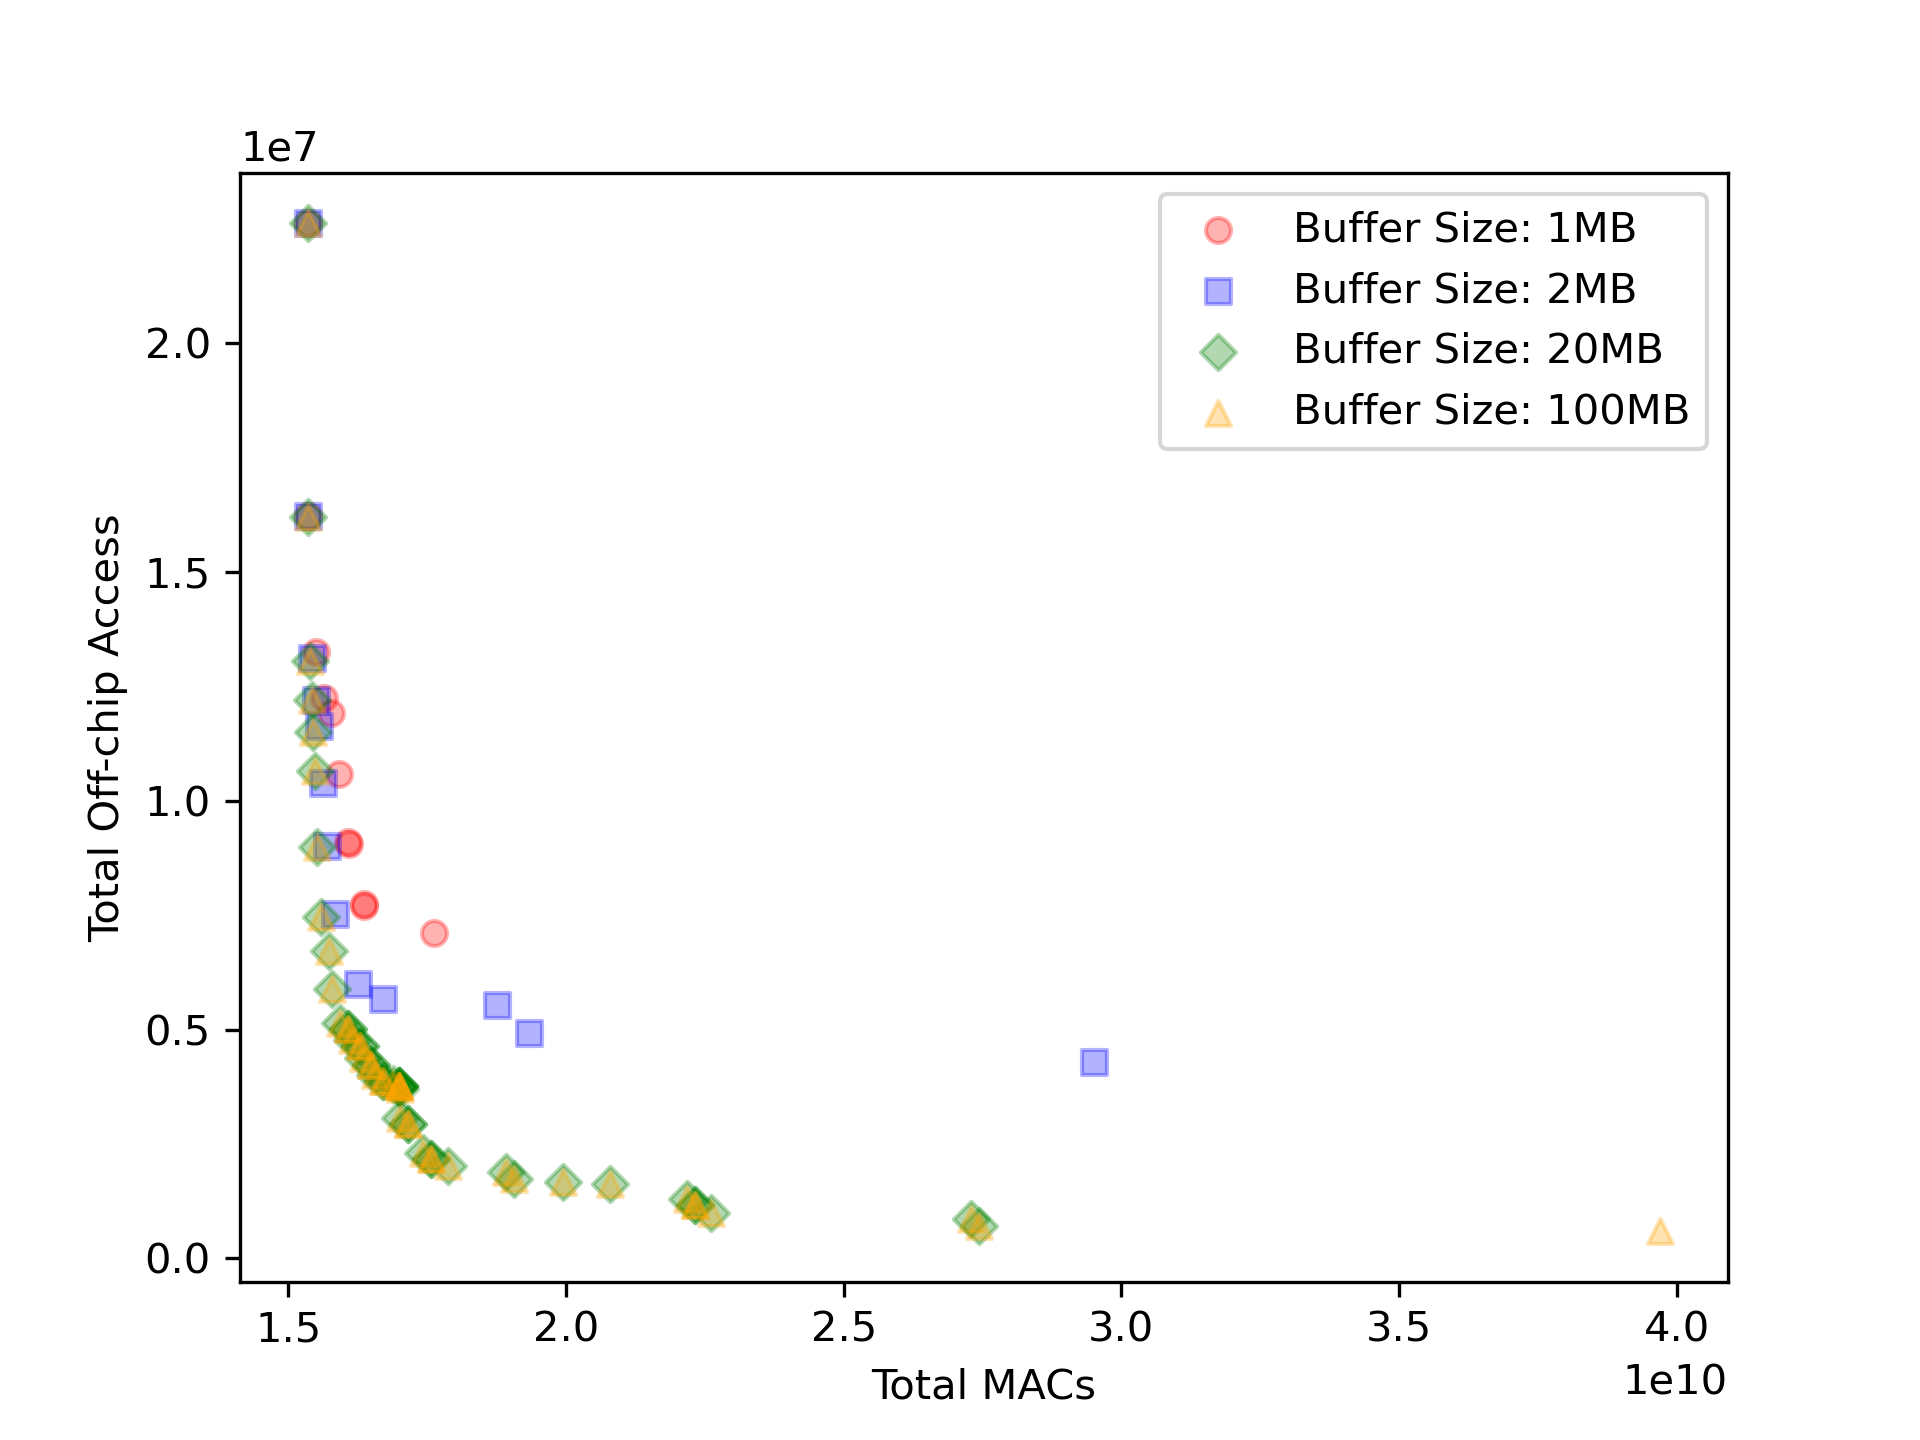
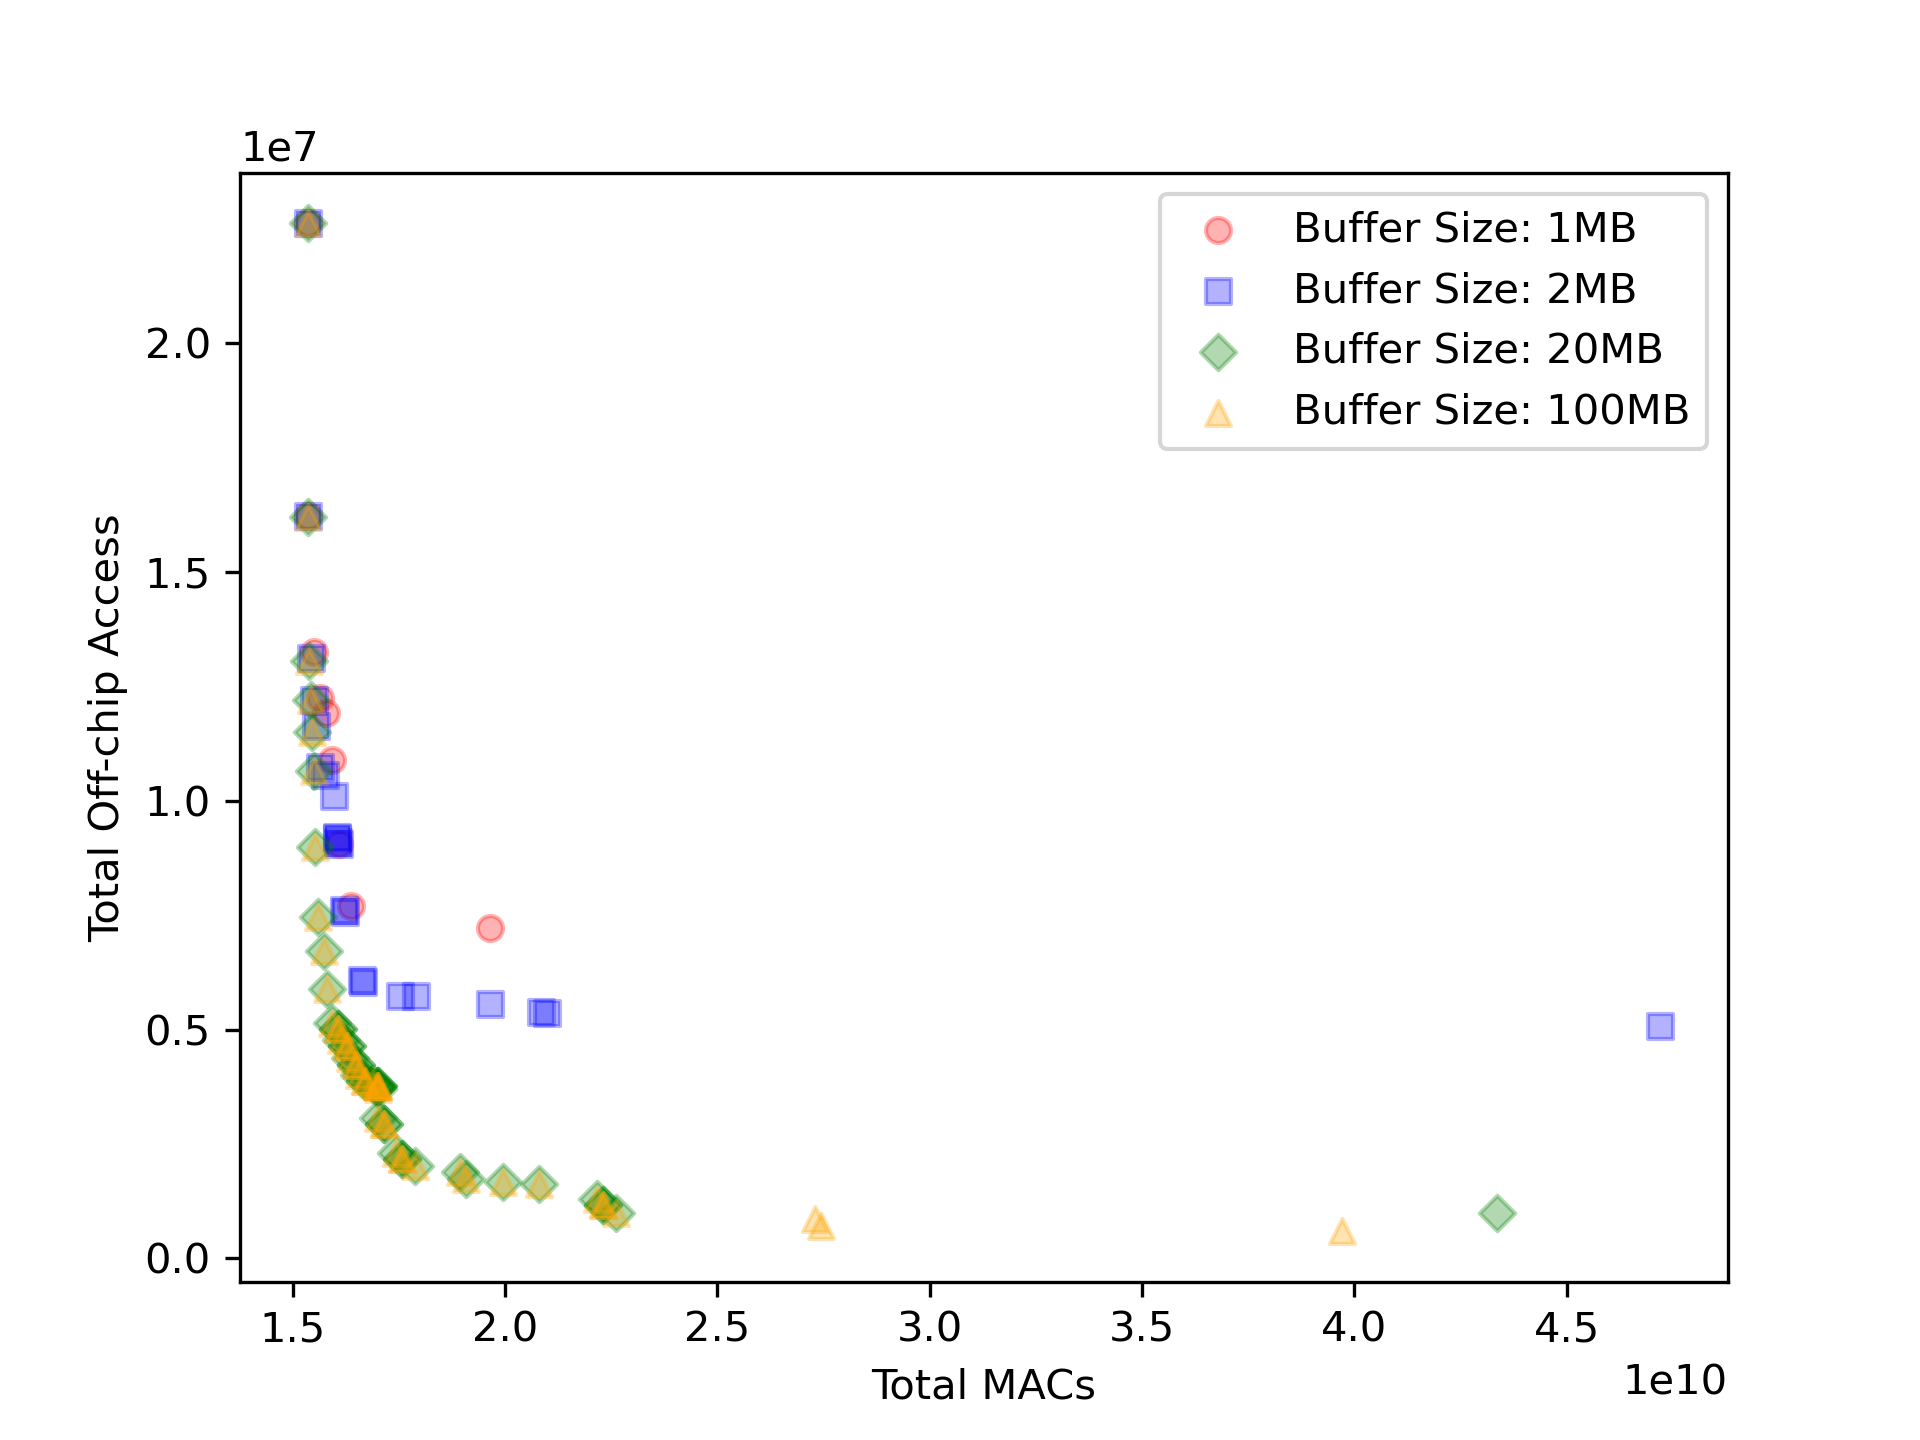
debug

diff --git a/scripts/sample-fusion.py b/scripts/sample-fusion.py
@@ -84,68 +84,68 @@ strategies = layerFuserRecursiveDP.fuse_layer_recursive_start(config_no_dram, cn
 helper.printStrategies(strategies)
 helper.summarizeStrategies(strategies, buffer_size)
 
-strategy_index=0
-for fused_groups in strategies:
+# strategy_index=0
+# for fused_groups in strategies:
 
-    index = 0
-    cycles_list = [] #cycles
-    energy_list = [] #energy_pJ
-    energy_per_mac_list = [] #energy_per_mac
-    macs_num_list = [] #macs
-    for i in range(0, len(fused_groups)):
-        for j in range(0, len(fused_groups[i])):
+#     index = 0
+#     cycles_list = [] #cycles
+#     energy_list = [] #energy_pJ
+#     energy_per_mac_list = [] #energy_per_mac
+#     macs_num_list = [] #macs
+#     for i in range(0, len(fused_groups)):
+#         for j in range(0, len(fused_groups[i])):
             
-            # print(fused_groups[i][j])
-            input_tile_count = fused_groups[i][j][3]
-            print("input_tile_count: ", input_tile_count)
-            fused_groups[i][j][3]=1
-            problem = fused_groups[i][j]
+#             # print(fused_groups[i][j])
+#             input_tile_count = fused_groups[i][j][3]
+#             print("input_tile_count: ", input_tile_count)
+#             fused_groups[i][j][3]=1
+#             problem = fused_groups[i][j]
 
-            print("Preparing to run timeloop for problem index ", index)
-            print("Problem: ", problem)
+#             print("Preparing to run timeloop for problem index ", index)
+#             print("Problem: ", problem)
 
-            dirname = str(raw_result_dir) + '/strategy_' + str(strategy_index)+ '/problem_' + str(index) + '/'
-            subprocess.check_call(['mkdir', '-p', dirname])
-            if len(fused_groups[i])>1:
-                timeloop.run_timeloop(dirname, configfile = config_no_dram_abspath, workload_bounds = problem)
-            else:
-                timeloop.run_timeloop(dirname, configfile = config_with_dram_abspath, workload_bounds = problem)
+#             dirname = str(raw_result_dir) + '/strategy_' + str(strategy_index)+ '/problem_' + str(index) + '/'
+#             subprocess.check_call(['mkdir', '-p', dirname])
+#             if len(fused_groups[i])>1:
+#                 timeloop.run_timeloop(dirname, configfile = config_no_dram_abspath, workload_bounds = problem)
+#             else:
+#                 timeloop.run_timeloop(dirname, configfile = config_with_dram_abspath, workload_bounds = problem)
 
-            stats = parse_timeloop_output.parse_timeloop_stats(dirname)
-            if stats == {}:
-                print("Timeloop couldn't find a mapping for this problem within the search parameters, please check the log for more details.")
-            else:
-                print("Run successful, see log for text stats, or use the Python parser to parse the XML stats.")
-                print("Stats from run:")
-                pprint.pprint(stats)
-                # cycles
-                cycles_all_tiles = stats['cycles'] * input_tile_count
-                total_cycles+=cycles_all_tiles
-                print("problem cycles: ", cycles_all_tiles)
-                # energy
-                energy_all_tiles = stats['energy_pJ'] * input_tile_count
-                total_energy_net+=energy_all_tiles
-                print("problem total energy (pJ): ", energy_all_tiles)
-                # macs
-                macs_all_tiles = stats['macs'] * input_tile_count
-                #append lists
-                cycles_list.append(cycles_all_tiles)
-                energy_list.append(energy_all_tiles)
-                energy_per_mac_list.append(stats['energy_per_mac'])
-                macs_num_list.append(macs_all_tiles)
+#             stats = parse_timeloop_output.parse_timeloop_stats(dirname)
+#             if stats == {}:
+#                 print("Timeloop couldn't find a mapping for this problem within the search parameters, please check the log for more details.")
+#             else:
+#                 print("Run successful, see log for text stats, or use the Python parser to parse the XML stats.")
+#                 print("Stats from run:")
+#                 pprint.pprint(stats)
+#                 # cycles
+#                 cycles_all_tiles = stats['cycles'] * input_tile_count
+#                 total_cycles+=cycles_all_tiles
+#                 print("problem cycles: ", cycles_all_tiles)
+#                 # energy
+#                 energy_all_tiles = stats['energy_pJ'] * input_tile_count
+#                 total_energy_net+=energy_all_tiles
+#                 print("problem total energy (pJ): ", energy_all_tiles)
+#                 # macs
+#                 macs_all_tiles = stats['macs'] * input_tile_count
+#                 #append lists
+#                 cycles_list.append(cycles_all_tiles)
+#                 energy_list.append(energy_all_tiles)
+#                 energy_per_mac_list.append(stats['energy_per_mac'])
+#                 macs_num_list.append(macs_all_tiles)
 
-            index+=1
+#             index+=1
 
-    cycles_array = np.array(cycles_list)
-    energy_array = np.array(energy_list)
-    energy_per_mac_array = np.array(energy_per_mac_list)
-    macs_num_array = np.array(macs_num_list)
+#     cycles_array = np.array(cycles_list)
+#     energy_array = np.array(energy_list)
+#     energy_per_mac_array = np.array(energy_per_mac_list)
+#     macs_num_array = np.array(macs_num_list)
 
-    result_stats = np.column_stack((np.arange(index), cycles_array, energy_array, energy_per_mac_array, macs_num_array))
-    stats_dir = f"{raw_result_dir}/strategy_{strategy_index}/stats.csv"
-    np.savetxt(stats_dir, result_stats, delimiter=',', header='i, cycles, energy, energy per mac, macs', comments='')
+#     result_stats = np.column_stack((np.arange(index), cycles_array, energy_array, energy_per_mac_array, macs_num_array))
+#     stats_dir = f"{raw_result_dir}/strategy_{strategy_index}/stats.csv"
+#     np.savetxt(stats_dir, result_stats, delimiter=',', header='i, cycles, energy, energy per mac, macs', comments='')
 
-    print("DONE.")
-    print("Total cycles: ", total_cycles)
+#     print("DONE.")
+#     print("Total cycles: ", total_cycles)
 
-    strategy_index += 1
+#     strategy_index += 1

diff --git a/scripts/layerFuserRecursiveDP.py b/scripts/layerFuserRecursiveDP.py
@@ -72,7 +72,12 @@ def fuse_layer_recursive(config, cnn_layers, pooling_layers, buffer_size, optima
                     fused_layers.insert(0, copy.deepcopy(list(cnn_layers[i])))
                     fusing_params.insert(0,copy.deepcopy([W_t, H_t, tile_count]))
                     i = i-1
-
+                    if i>=0: 
+                        P_t, Q_t = helper.infer_prev_layer_output_size(W_t, H_t, pooling_layers[i]) 
+                        (W_t, H_t) = helper.infer_input_size(P_t, Q_t, cnn_layers[i])
+                        outputSize = P_t*Q_t*cnn_layers[i][4]
+                        inputSize = W_t*H_t*cnn_layers[i][2]
+                        featureStorage = max(outputSize+inputSize, featureStorage)
                     
 
                     # rewrite fused layers
@@ -123,12 +128,7 @@ def fuse_layer_recursive(config, cnn_layers, pooling_layers, buffer_size, optima
                         helper.updateParetoFront(optimal_strategies, fused_groups)
                         # print(optimal_strategies)
                     
-                    if i>=0: 
-                        P_t, Q_t = helper.infer_prev_layer_output_size(W_t, H_t, pooling_layers[i]) 
-                        (W_t, H_t) = helper.infer_input_size(P_t, Q_t, cnn_layers[i])
-                        outputSize = P_t*Q_t*cnn_layers[i][4]
-                        inputSize = W_t*H_t*cnn_layers[i][2]
-                        featureStorage = max(outputSize+inputSize, featureStorage)
+                    
                 # print("optimal strategy at end of this loop:")
                 # print(optimal_strategies)
                     # option 2: continue fuse

diff --git a/scripts/run_layer_fusion.py b/scripts/run_layer_fusion.py
@@ -70,7 +70,7 @@ plt.ylabel("Total Off-chip Access")
 plt.legend()
 plt.show()
 plt.savefig(f"macs_vs_offchip_access.png",dpi=300)
-helper.summarizeStrategies(strategies, buffer_size)
+# helper.summarizeStrategies(strategies, buffer_size)
 
 # strategy_index=0
 # for fused_groups in strategies:
